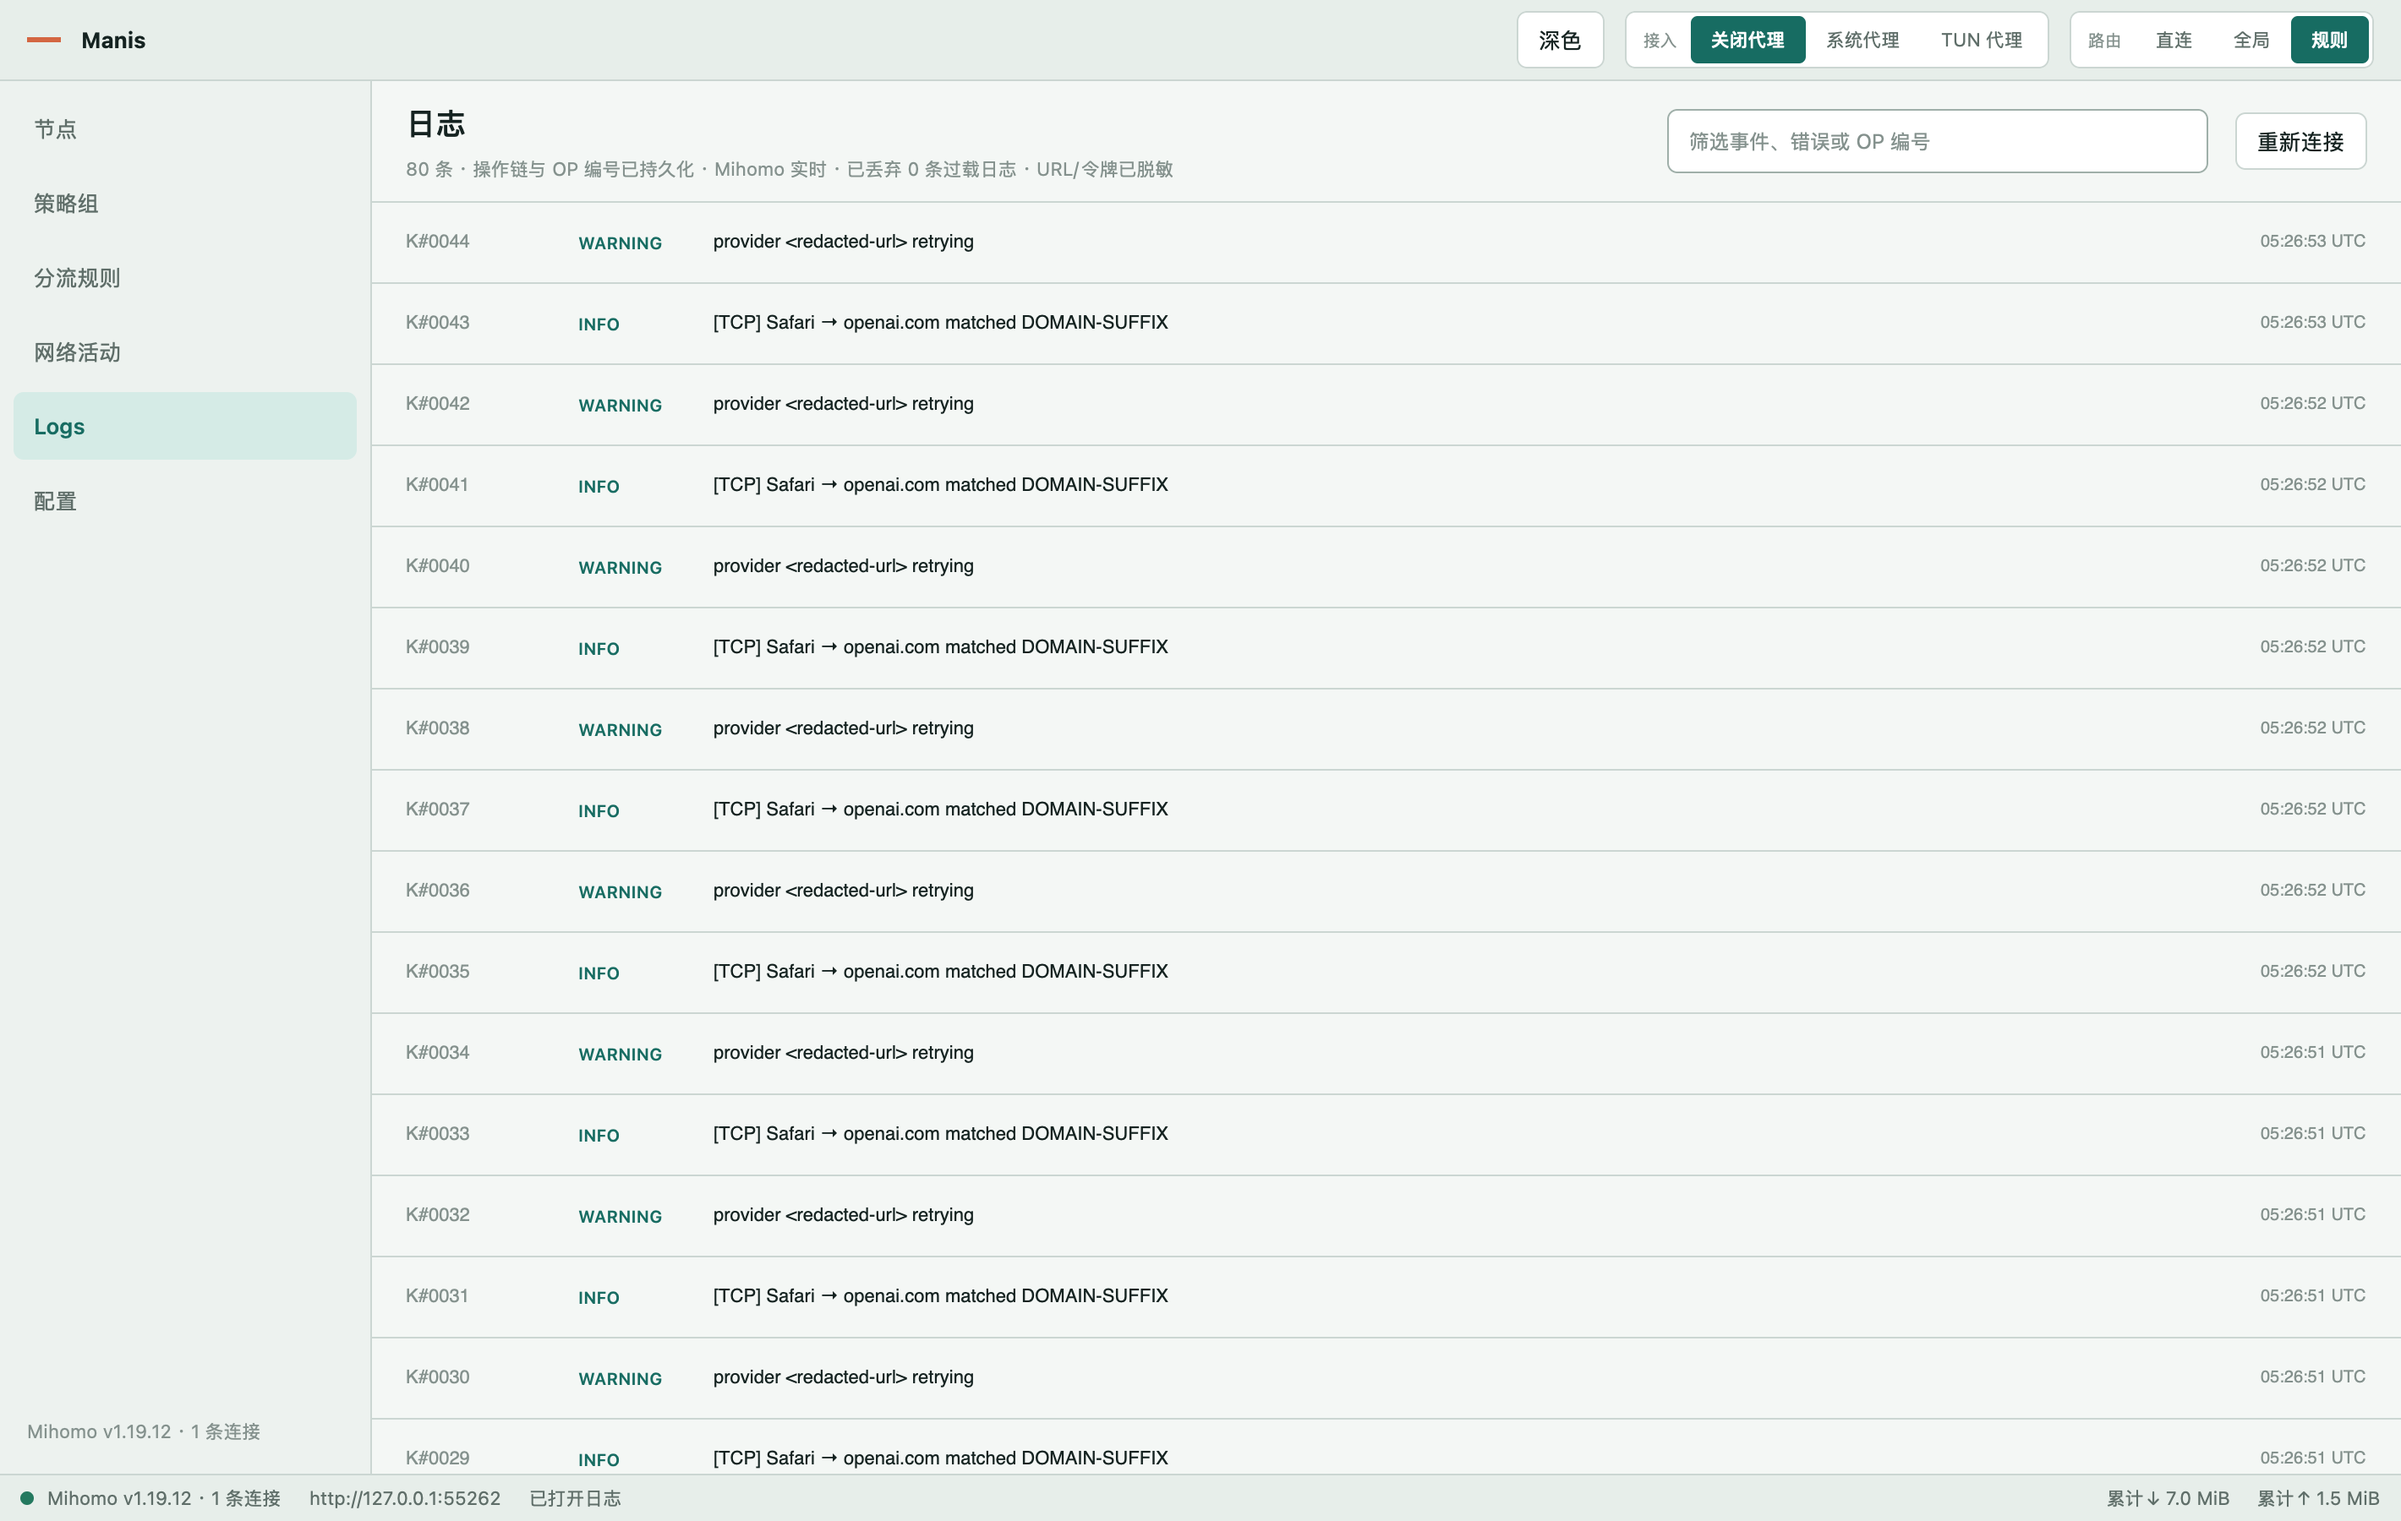
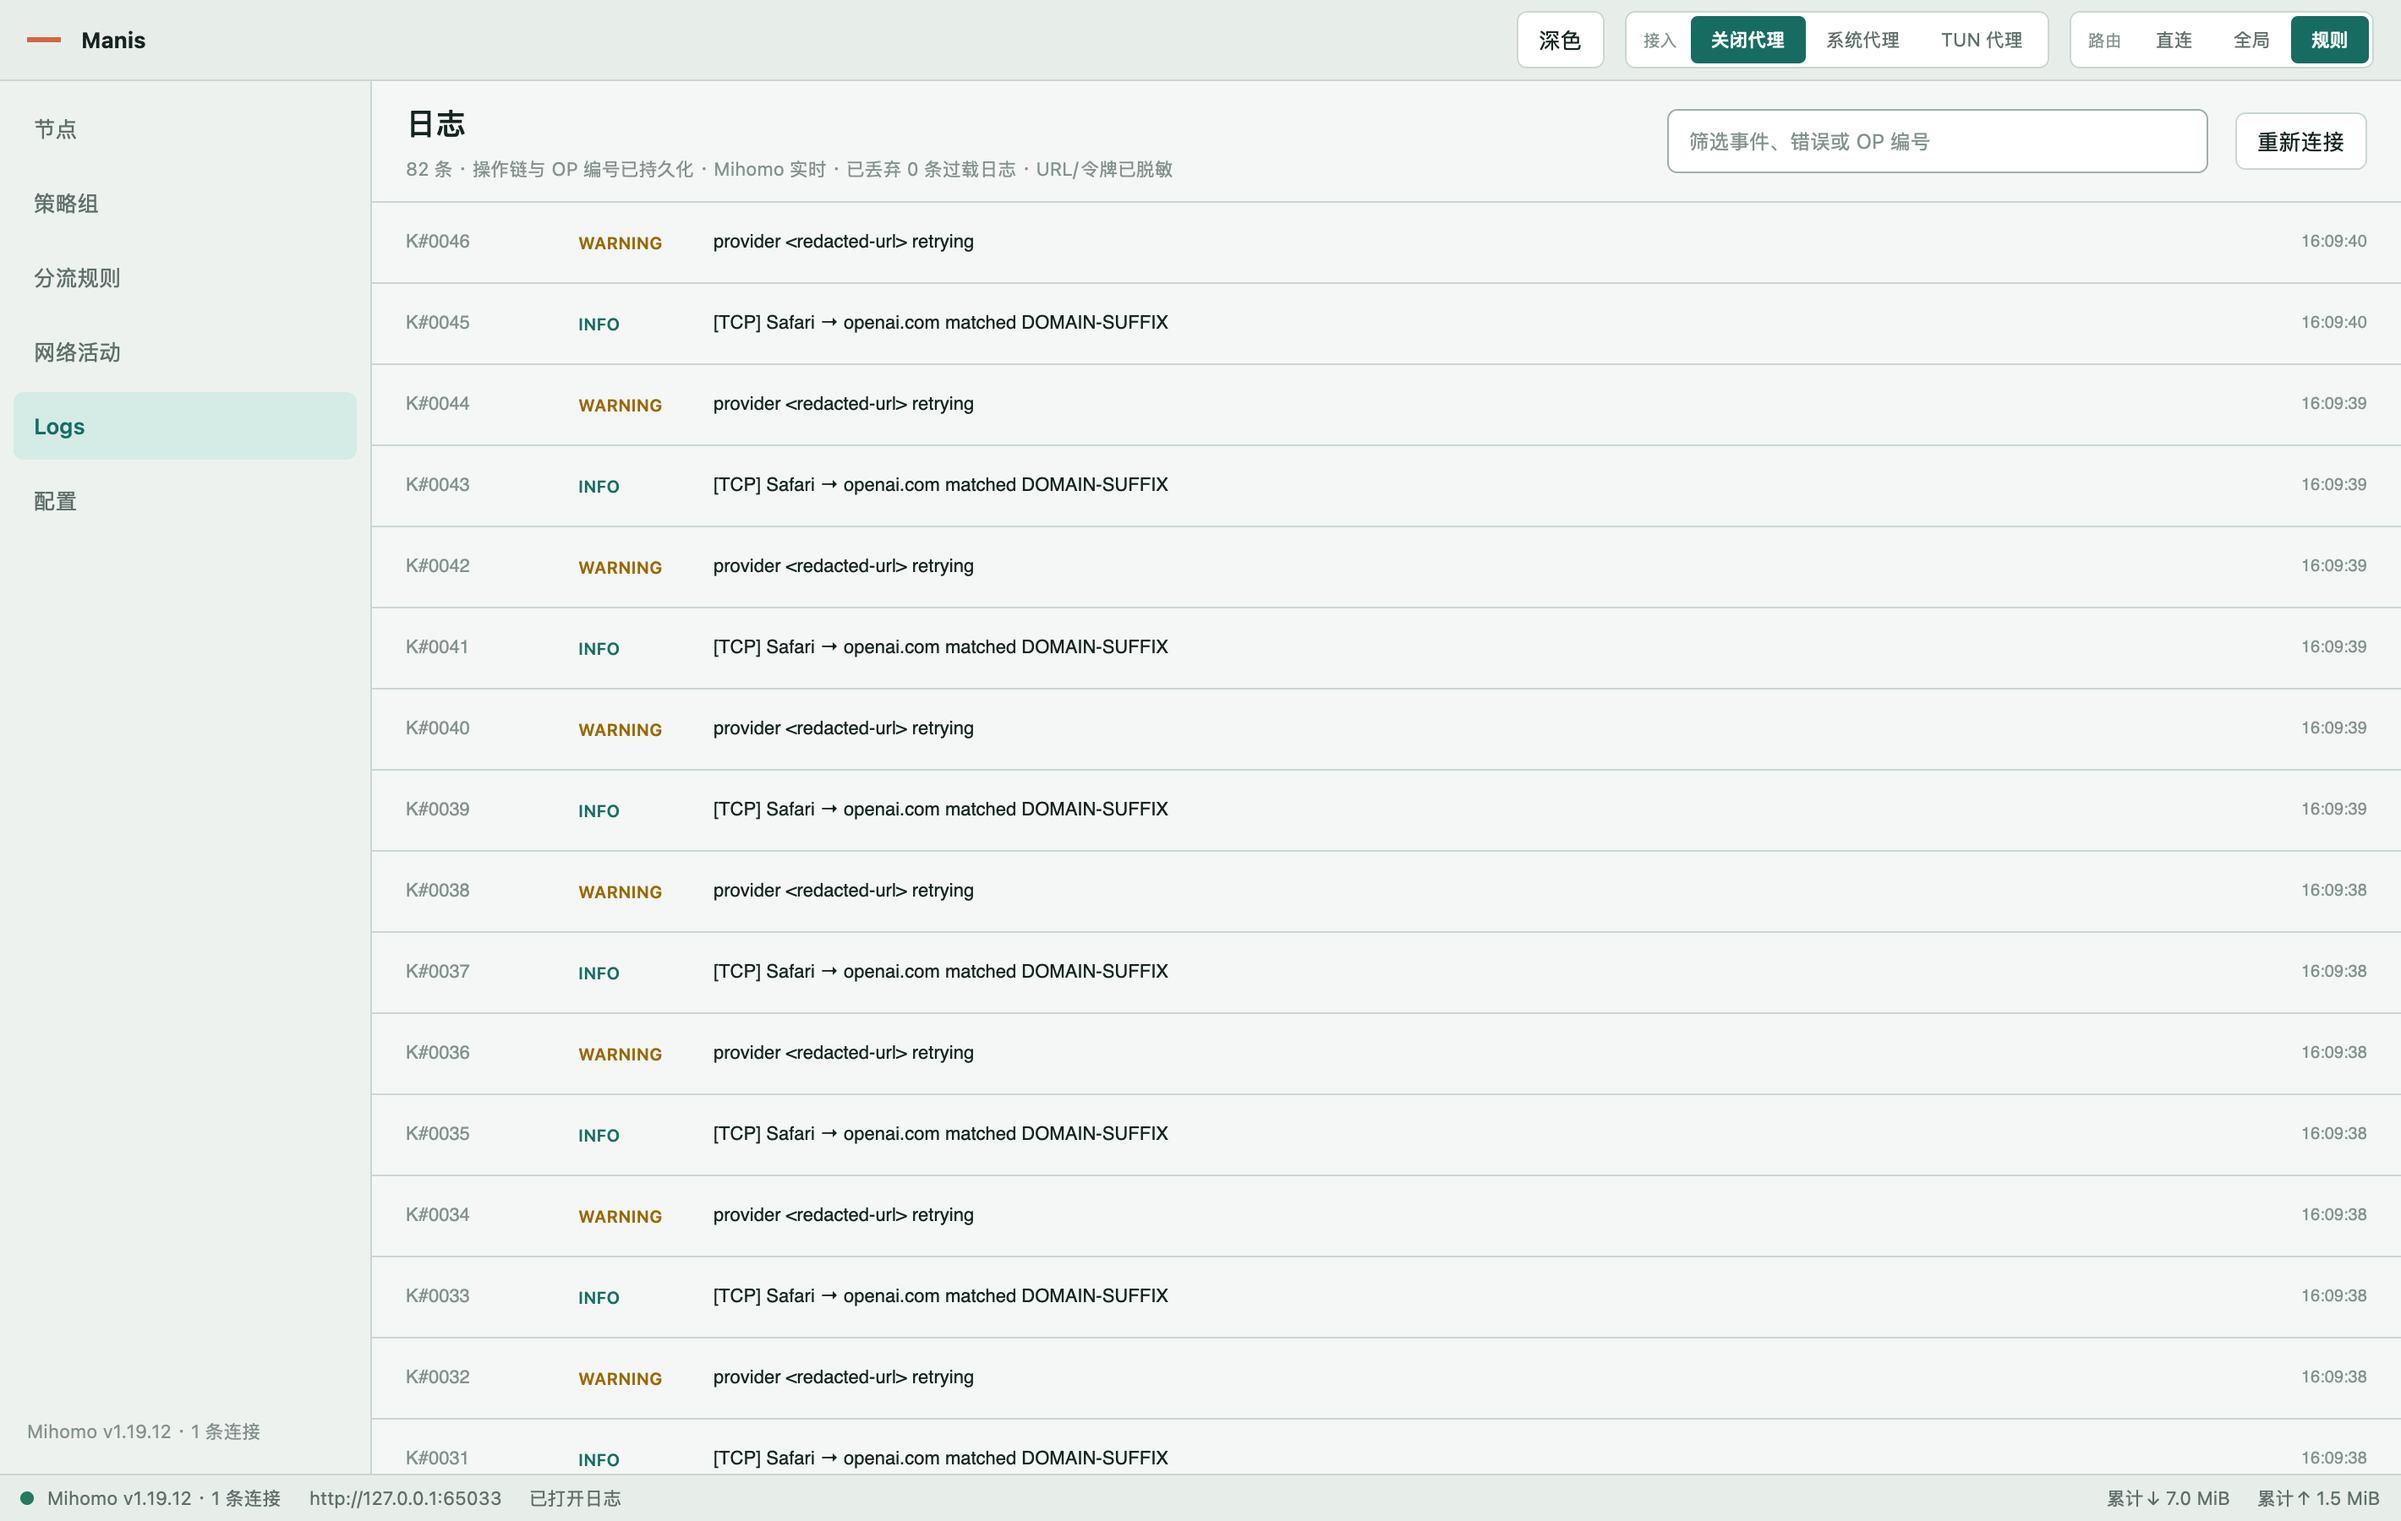
fix(logs): show local time and colour levels by severity

diff --git a/crates/manis-ui/src/app/logs.rs b/crates/manis-ui/src/app/logs.rs
@@ -1,4 +1,4 @@
-use gpui::{Div, FontWeight, ParentElement, Role, Styled, div, prelude::*, px};
+use gpui::{Div, FontWeight, ParentElement, Rgba, Role, Styled, div, prelude::*, px};
 use manis_core::WindowSizeClass;
 
 use super::ManisApp;
@@ -84,7 +84,7 @@ impl ManisApp {
                                 .flex_shrink_0()
                                 .text_size(px(10.0))
                                 .font_weight(FontWeight::SEMIBOLD)
-                                .text_color(theme.action_primary)
+                                .text_color(log_level_color(&entry.level, theme))
                                 .child(entry.level.to_uppercase()),
                         )
                         .child(
@@ -135,7 +135,7 @@ impl ManisApp {
                                 .flex_shrink_0()
                                 .text_size(px(10.0))
                                 .font_weight(FontWeight::SEMIBOLD)
-                                .text_color(theme.action_primary)
+                                .text_color(log_level_color(&entry.level, theme))
                                 .child(entry.level),
                         )
                         .child(
@@ -279,11 +279,40 @@ fn logs_summary(language: Language, count: usize, live_status: &str, dropped: u6
 }
 
 fn format_log_time(timestamp_ms: u128) -> String {
-    let seconds = (timestamp_ms / 1_000) % 86_400;
-    let hours = seconds / 3_600;
-    let minutes = seconds % 3_600 / 60;
-    let seconds = seconds % 60;
-    format!("{hours:02}:{minutes:02}:{seconds:02} UTC")
+    // `Local` silently falls back to UTC when the system zone is unreadable, so there is no
+    // failure to report here — only an offset, which is zero in that case.
+    format_local_time(
+        timestamp_ms,
+        chrono::Local::now().offset().local_minus_utc(),
+    )
+}
+
+/// Renders a timestamp on the viewer's own wall clock.
+fn format_local_time(timestamp_ms: u128, offset_seconds: i32) -> String {
+    // Reducing to one day first keeps the value trivially in range for the signed arithmetic.
+    let day_seconds = i64::try_from(timestamp_ms / 1_000 % 86_400).unwrap_or(0);
+    // `rem_euclid` keeps a westward offset from underflowing into a negative clock.
+    let seconds = (day_seconds + i64::from(offset_seconds)).rem_euclid(86_400);
+    format!(
+        "{:02}:{:02}:{:02}",
+        seconds / 3_600,
+        seconds % 3_600 / 60,
+        seconds % 60
+    )
+}
+
+/// Maps a log level to its severity colour.
+///
+/// Accepts both the UI's own spellings and the kernel's lowercase `warning`, so one glance
+/// separates failures from noise in either list.
+fn log_level_color(level: &str, theme: Theme) -> Rgba {
+    match level.to_ascii_lowercase().as_str() {
+        "error" => theme.status_error,
+        "warn" | "warning" => theme.status_warning,
+        "info" => theme.action_primary,
+        "debug" | "trace" => theme.text_tertiary,
+        _ => theme.text_secondary,
+    }
 }
 
 #[cfg(test)]
@@ -291,8 +320,57 @@ mod tests {
     use crate::diagnostics::UiLogEntry;
 
     #[test]
-    fn log_time_is_bounded_and_readable() {
-        assert_eq!(super::format_log_time(3_723_000), "01:02:03 UTC");
+    fn log_time_is_shown_in_the_local_offset() {
+        // 01:02:03 UTC on each viewer's own wall clock.
+        assert_eq!(super::format_local_time(3_723_000, 8 * 3_600), "09:02:03");
+        assert_eq!(super::format_local_time(3_723_000, 0), "01:02:03");
+        // Half-hour zones such as India must not be rounded away.
+        assert_eq!(
+            super::format_local_time(3_723_000, 5 * 3_600 + 1_800),
+            "06:32:03"
+        );
+    }
+
+    #[test]
+    fn a_local_offset_may_move_the_clock_across_midnight() {
+        // 02:00:00 UTC is the previous evening in New York.
+        assert_eq!(super::format_local_time(7_200_000, -5 * 3_600), "21:00:00");
+        // 23:00:00 UTC is the next morning in Shanghai.
+        assert_eq!(super::format_local_time(82_800_000, 8 * 3_600), "07:00:00");
+    }
+
+    #[test]
+    fn severity_drives_the_level_colour() {
+        let theme = crate::theme::Theme::light();
+
+        assert_eq!(super::log_level_color("ERROR", theme), theme.status_error);
+        assert_eq!(super::log_level_color("WARN", theme), theme.status_warning);
+        assert_eq!(super::log_level_color("INFO", theme), theme.action_primary);
+        assert_eq!(super::log_level_color("DEBUG", theme), theme.text_tertiary);
+    }
+
+    #[test]
+    fn kernel_level_spellings_map_to_the_same_colours() {
+        let theme = crate::theme::Theme::dark();
+
+        // Mihomo writes "warning" and lowercases everything.
+        assert_eq!(
+            super::log_level_color("warning", theme),
+            theme.status_warning
+        );
+        assert_eq!(super::log_level_color("warn", theme), theme.status_warning);
+        assert_eq!(super::log_level_color("error", theme), theme.status_error);
+        assert_eq!(super::log_level_color("info", theme), theme.action_primary);
+        // An unknown level must stay legible rather than borrow a severity colour.
+        assert_eq!(super::log_level_color("silly", theme), theme.text_secondary);
+    }
+
+    #[test]
+    fn error_and_warning_are_visually_distinct() {
+        for theme in [crate::theme::Theme::light(), crate::theme::Theme::dark()] {
+            assert_ne!(theme.status_error, theme.status_warning);
+            assert_ne!(theme.status_warning, theme.action_primary);
+        }
     }
 
     #[test]

diff --git a/crates/manis-ui/src/theme.rs b/crates/manis-ui/src/theme.rs
@@ -19,6 +19,7 @@ pub(crate) struct Theme {
     pub route_trace: Rgba,
     pub route_soft: Rgba,
     pub status_success: Rgba,
+    pub status_warning: Rgba,
     pub status_error: Rgba,
 }
 
@@ -40,6 +41,7 @@ impl Theme {
             route_trace: rgb(0xd46642),
             route_soft: rgb(0xf8e5dc),
             status_success: rgb(0x24795f),
+            status_warning: rgb(0x9a6700),
             status_error: rgb(0xb54f49),
         }
     }
@@ -61,6 +63,7 @@ impl Theme {
             route_trace: rgb(0xf39b75),
             route_soft: rgb(0x402820),
             status_success: rgb(0x79d7b0),
+            status_warning: rgb(0xe0a83a),
             status_error: rgb(0xef8c84),
         }
     }

diff --git a/progress.md b/progress.md
@@ -311,3 +311,18 @@
 - 视觉验收：宽屏 1420px 与紧凑 720px 均无截断重叠，直连规则卡片位于生效规则之上，预置的「端口 22」正确显示。
 - 我的部分全绿：manis-core 26、manis-ui 117（含 direct_rule 9 个）、manis-profile 我的 2 个测试通过；`cargo fmt` 与 `--all-targets` 严格 Clippy 通过。
 - 并发提醒：另一会话在同一工作树同时改动 `nodes.rs`、`mihomo.rs`、`client_behavior.rs` 与 `profile_behavior.rs`，其中 3 个测试因其半成品而红（`__MANIS_GLOBAL__` 断言无对应实现）。已用 `hash-object`/`update-index` 从 HEAD 基线重建纯净版本入库，工作区中其改动一字未动。
+
+# 2026-08-26 日志本地时间与级别配色
+
+- 用户要求日志时间用本地时间而非 UTC，并让级别列按严重度着色（ERROR 红、WARN 黄），不要所有级别一个颜色。
+- 盘点后范围比预想小：持久化日志存的是原始 UNIX 毫秒（本就正确），来源更新时间是「N 分钟前」相对格式（不受时区影响），唯一面向用户的时间展示是 `logs.rs` 的 `format_log_time`。
+- 时区实现选了 chrono：它已是 gpui 的直接依赖并已编译，显式声明后 `Cargo.lock` 仅多一行引用，不新增任何编译产物或供应链面，同时正确处理夏令时且无 unsafe，优于调 `date +%z` 子进程再缓存。
+- 拆成纯函数 `format_local_time(timestamp_ms, offset_seconds)` 加薄壳，测试因此不依赖运行环境时区，覆盖正偏移、负偏移跨到前一日、零偏移与印度 +5:30 半小时制。
+- 设计阶段说的「取不到时区就回退 UTC 并标注」实测无法成立：chrono 的 `Local` 在系统时区不可读时静默回退到 UTC(0)，调用方无从区分真在 UTC 与查询失败。已删掉该分支，不保留假装能检测失败的死代码。
+- 级别配色：ERROR 用既有 `status_error`，WARN 新增 `status_warning`（浅 `#9a6700`、深 `#e0a83a`，取自 GitHub Primer 的无障碍验证值），INFO 保持品牌绿，DEBUG/TRACE 降为灰以弱化噪音，未知级别用中性色而非借用严重度色。
+- 着色同时接入内核与 UI 两个日志列表，并按大小写不敏感匹配，因为 Mihomo 写的是小写 `warning` 而 UI 写 `WARN`。
+- 对比度校验：浅色 WARN 4.51:1、深色 8.53:1、浅色 ERROR 4.66:1、深色 7.60:1，均达 WCAG AA；浅色 WARN 贴线但与既有 ERROR 色同级，属一致的设计语言。
+- `Theme` 加第 17 个 `Rgba` 后正好越过 Clippy 的 256 字节按值传参上限，导致 87 处报错。未做无关重构，改为在 `clippy.toml` 写明理由把上限提到 512——`Theme` 是刻意按值传递的 Copy 令牌集，一次拷贝相对每帧渲染可忽略。
+- 全仓验证通过：236 passed、4 ignored、0 failed；`cargo fmt` 与 `--all-targets` 严格 Clippy 通过。
+- 视觉验收：宽屏日志页时间显示为本地 `16:09:40`（无 UTC 后缀），WARNING 琥珀与 INFO 绿区分清晰。截图数据中没有 ERROR 行，红色仅由单元测试覆盖，未经视觉确认。
+- 本轮在独立 worktree `~/.planning/manis-localtime` 基于远端 main 进行，未触碰仍被另一会话占用的主工作树。

diff --git a/task_plan.md b/task_plan.md
@@ -209,6 +209,13 @@
 - [pending] 3. 将直连规则插入托管配置最前，并在分流规则页实现增删交互
 - [pending] 4. 完成真实 Mihomo 校验、全仓验证、Git 提交并 push
 
+## 日志本地时间与级别配色
+
+- [completed] 1. 盘点所有面向用户的时间展示点与日志级别渲染
+- [completed] 2. 以 TDD 建立本地偏移格式化与级别到颜色的映射
+- [completed] 3. 新增主题琥珀色并接入内核与 UI 两个日志列表
+- [completed] 4. 完成对比度校验、原生截图、全仓验证与 Git 提交
+
 ## 固定约束
 - 实现框架：Rust + GPUI
 - 目标平台：Windows、macOS、Linux
@@ -254,4 +261,6 @@
 | 新内核卡片改变配置页纵向坐标，旧截图交互没有命中输入框 | 2 | 更新原生快照坐标并提取滚动 helper；完整截图链路复跑成功，订阅/VLESS fixture 恢复正常 |
 | 首轮代码审查发现 sing-box 控制器密钥使用进程级回退 | 1 | 删除全局密钥，改为由受管 runtime 持有并随 endpoint 显式传递；外部 controller 只接受用户显式环境密钥 |
 | 语言卡改变配置页与节点详情快照的旧坐标 | 2 | 以截图实际布局校准滚动、折叠与详情按钮坐标，并让语言快照真实点击后校验私有偏好文件 |
+| 给 `Theme` 加第 17 个颜色后，87 处按值传参触发 Clippy 的 256 字节上限 | 1 | 不做 87 处 `&Theme` 无关重构；`Theme` 是刻意按值传递的 Copy 令牌集，改为在 `clippy.toml` 写明理由并把 `pass-by-value-size-limit` 提到 512 |
+| 设计的「取不到时区就回退 UTC 并标注」无法实现 | 1 | chrono 的 `Local` 在系统时区不可读时静默回退到 UTC(0)，调用方无从区分；删掉伪保护与死分支，不留假装能检测失败的代码 |
 | 在 `apply_proxy_mode` 前插入新方法时拆散了它原有的 `#[allow(clippy::too_many_lines)]` | 1 | 先误判为可见性触发 lint；用 `git show HEAD` 对照后确认属性被顶走，把它移回原函数而非重构或新增豁免 |
